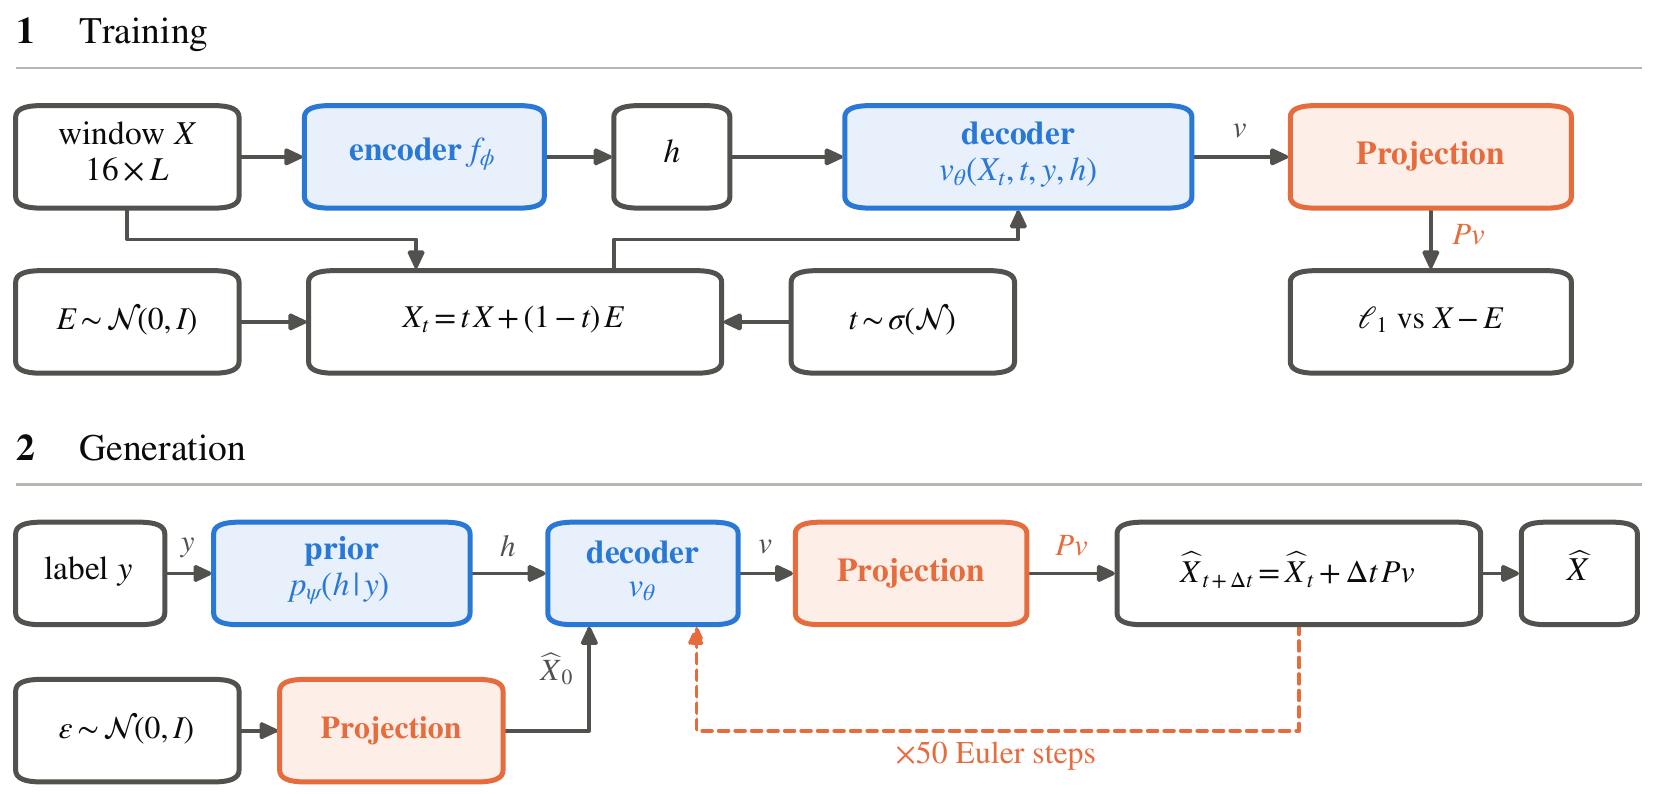
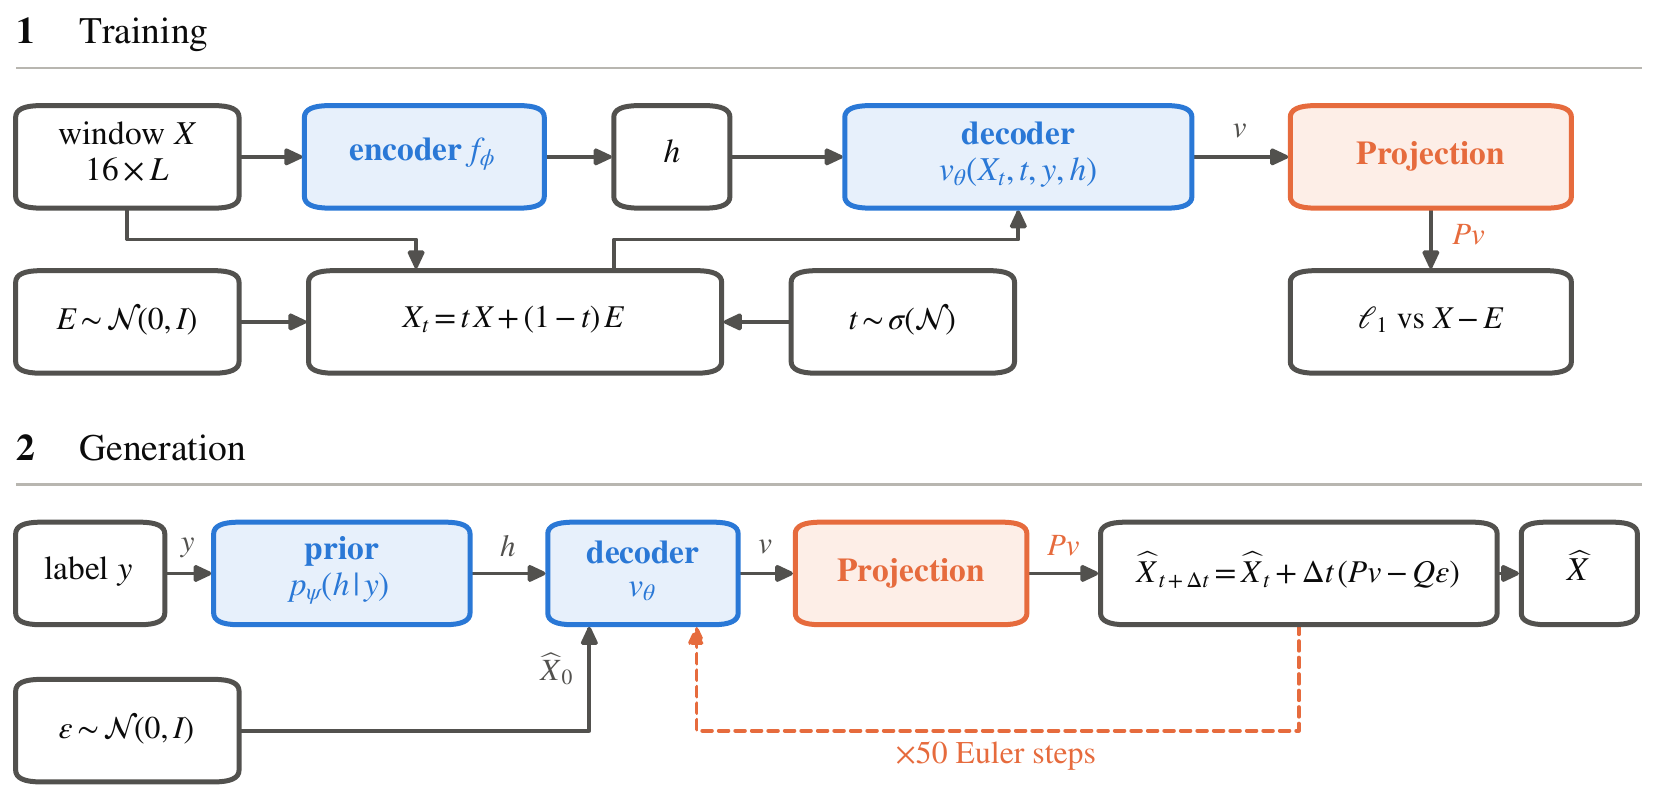
Match sampling to training

Changed region(s): [[0.6152, 0.6348, 0.9228, 0.7859], [0.1538, 0.8463, 0.3076, 0.9975]]

diff --git a/montageflow/models/flow.py b/montageflow/models/flow.py
@@ -25,8 +25,7 @@ class FlowConfig:
     cross_channel: bool = True
     prediction: str = "velocity"          # "velocity" or "x" (clean-signal prediction, as in JET)
     loss: str = "l1"                      # "l1" or "l2"
-    projection: bool = True               # project network output and initial noise onto ker A
-    project_train_noise: bool = False     # also project the noise used to build x_t in training
+    projection: bool = True               # project the network output onto ker A
     latent_dim: int = 256                 # 0 disables latent conditioning
     encoder_width: int = 512
     encoder_depth: int = 8
@@ -97,8 +96,6 @@ class FlowModel(nn.Module):
         t = torch.sigmoid(torch.randn(x.shape[0], device=x.device) * cfg.time_std + cfg.time_mean)
         t = t.view(-1, 1, 1, 1)
         e = torch.randn_like(x)
-        if cfg.projection and cfg.project_train_noise:
-            e = self._project(e)
         x_t = t * x + (1 - t) * e
 
         out = self.net(x_t, t.flatten(), y, h)
@@ -133,8 +130,10 @@ class FlowModel(nn.Module):
                project: Optional[bool] = None) -> torch.Tensor:
         """Generate windows for the given labels (and latents, if the model uses them).
 
-        `project` overrides the configured projection at sampling time; it is how the
-        "projection at inference only" ablation is run on a model trained without it.
+        A model trained with the projection starts from Gaussian noise x_0, as in training, and the
+        part of the state outside ker A decays as (1 - t) Q x_0. `project` overrides the configured
+        projection; on a model trained without it, `project=True` also projects x_0 ("projection
+        at inference only").
         """
         cfg = self.cfg
         if self.has_latent != (h is not None):
@@ -146,7 +145,11 @@ class FlowModel(nn.Module):
         B, device = labels.shape[0], labels.device
 
         x = torch.randn((B, self.channels, self.num_patches, self.patch), device=device)
-        if project:
+        null = 0.0
+        if project and cfg.projection:
+            assert cfg.prediction == "velocity"
+            null = x - self._project(x)                 # Q x_0
+        elif project:
             x = self._project(x)
         grid = torch.linspace(0.0, 1.0, steps + 1, device=device)
         for i in range(steps):
@@ -155,5 +158,7 @@ class FlowModel(nn.Module):
             if project:
                 out = self._project(out)
             v = out if cfg.prediction == "velocity" else (out - x) / max(cfg.t_eps, 1.0 - t)
-            x = x + (t_next - t) * v
+            x = x + (t_next - t) * (v - null)
+        if project:
+            x = self._project(x)
         return x.reshape(B, self.channels, self.length)

diff --git a/montageflow/models/diffusion.py b/montageflow/models/diffusion.py
@@ -28,7 +28,7 @@ class DiffusionConfig:
     beta_end: float = 2e-2
     loss: str = "l1"                      # "l1" or "l2" on the predicted noise
     label_dropout: float = 0.1
-    projection: bool = False              # project the noise prediction and initial noise onto ker A
+    projection: bool = False              # project the noise prediction onto ker A
     latent_dim: int = 0                   # 0 disables latent conditioning
     encoder_width: int = 512
     encoder_depth: int = 8
@@ -110,7 +110,9 @@ class DiffusionModel(nn.Module):
                project: Optional[bool] = None) -> torch.Tensor:
         """Generate windows for the given labels (and latents, if the model uses them).
 
-        `project` overrides the configured projection at sampling time.
+        A model trained with the projection keeps the part of the starting noise outside ker A in
+        the network input, at the noise level of each step, as in training. `project` overrides the
+        configured projection at sampling time.
         """
         cfg = self.cfg
         if self.has_latent != (h is not None):
@@ -122,12 +124,16 @@ class DiffusionModel(nn.Module):
         B, device = labels.shape[0], labels.device
         ts = torch.linspace(cfg.timesteps - 1, 0, steps, device=device).long()
         x = torch.randn(B, self.channels, self.num_patches, self.patch, device=device)
+        null = 0.0
         if project:
+            if cfg.projection:
+                null = (x - self._project(x)) / (1 - self.alpha_bar[ts[0]]).sqrt()
             x = self._project(x)
         for i, t in enumerate(ts):
             a_t = self.alpha_bar[t]
             a_prev = self.alpha_bar[ts[i + 1]] if i + 1 < len(ts) else torch.tensor(1.0, device=device)
-            eps = self.net(x, torch.full((B,), float(t) / cfg.timesteps, device=device), labels, h)
+            x_in = x + (1 - a_t).sqrt() * null
+            eps = self.net(x_in, torch.full((B,), float(t) / cfg.timesteps, device=device), labels, h)
             if project:
                 eps = self._project(eps)
             x0 = (x - (1 - a_t).sqrt() * eps) / a_t.sqrt().clamp_min(1e-8)

diff --git a/tests/test_models.py b/tests/test_models.py
@@ -56,6 +56,28 @@ def test_projection_at_sampling_only():
     assert montage.montage_index(x) < 1e-5
 
 
+def test_sampling_follows_the_training_path():
+    model = build_model({"type": "flow", **SMALL, "latent_dim": 0}).eval()
+    states = []
+    model.net.register_forward_pre_hook(lambda _, args: states.append(args[0]))
+    x = model.sample(torch.tensor([0, 1]), steps=4)
+    null = [s - montage.project(s, model.P) for s in states]
+    assert null[0].abs().max() > 0.1
+    assert all(torch.allclose(n, (1 - i / 4) * null[0], atol=1e-5) for i, n in enumerate(null))
+    assert montage.montage_index(x.numpy()) < 1e-5
+
+
+def test_diffusion_sampling_follows_the_training_path():
+    model = build_model({"type": "diffusion", **SMALL, "timesteps": 50, "projection": True, "latent_dim": 0}).eval()
+    states = []
+    model.net.register_forward_pre_hook(lambda _, args: states.append(args[0]))
+    model.sample(torch.tensor([0, 1]), steps=4)
+    null = [s - montage.project(s, model.P) for s in states]
+    level = (1 - model.alpha_bar[torch.linspace(49, 0, 4).long()]).sqrt()
+    assert null[0].abs().max() > 0.1
+    assert all(torch.allclose(n, level[i] / level[0] * null[0], atol=1e-5) for i, n in enumerate(null))
+
+
 def test_diffusion_and_gan():
     for spec in ({"type": "diffusion", **SMALL, "timesteps": 50},
                  {"type": "gan", "channels": 16, "length": 200, "num_classes": 2, "width": 32,

diff --git a/README.md b/README.md
@@ -27,7 +27,7 @@ global latent $h$. The decoder receives the current flow state $X_t$, flow time 
 perturbed latent $\tilde h$, and predicts a velocity field. After encoder-decoder training, a
 class-conditional rectified-flow prior $p_\psi(h \mid y)$ is fitted to the encoded training latents and
 replaces the encoder during generation. The predicted velocity is projected onto $\ker A$. At inference,
-the Gaussian source is also projected to guarantee valid EEG.
+the part of the Gaussian source outside $\ker A$ decays to zero, as in training, so the generated EEG is valid.
 
 ## Setup
 
@@ -97,7 +97,7 @@ Settings can be overridden on the command line, e.g. `train.steps=1000`. Trainin
 latest checkpoint in `--out`. The defaults are the paper's settings: batch 128, learning rate 5e-5
 after a 2.5-epoch warmup, EMA 0.9999, class-balanced sampling, 100k steps.
 
-After training any model with a latent (MontageFlow, MontageDiff, ablation rows 4 and 5, projected training noise, L2 loss), fit its latent prior and, optionally, export a release directory:
+After training any model with a latent (MontageFlow, MontageDiff, ablation rows 4 and 5, L2 loss), fit its latent prior and, optionally, export a release directory:
 
 ```bash
 python scripts/fit_prior.py runs/montageflow_tuab/ckpt_0099999.pt
@@ -113,7 +113,7 @@ python scripts/export.py runs/montageflow_tuab/ckpt_0099999.pt release/tuab
 | `configs/baselines/jet.yaml`, `jet_x.yaml` | JET, JET<sup>×</sup> |
 | `configs/baselines/eeggan.yaml` | EEG-GAN |
 | `configs/ablations/ladder_1_x_prediction.yaml`, `ladder_2_velocity.yaml`, `ladder_4_latent.yaml`, `ladder_5_latent_noise.yaml` | Ablation table, rows 1, 2, 4 and 5 (row 3 uses `vanilla_fm.yaml`, row 6 uses `montageflow.yaml`) |
-| `configs/ablations/projected_noise.yaml`, `l2_loss.yaml` | Projected training noise, L2 loss |
+| `configs/ablations/l2_loss.yaml` | L2 loss |
 
 For the "inference only" row of the post-hoc projection table, evaluate the row-5 model with
 `--project`. For the prior-label ablation, fit the prior without labels:
